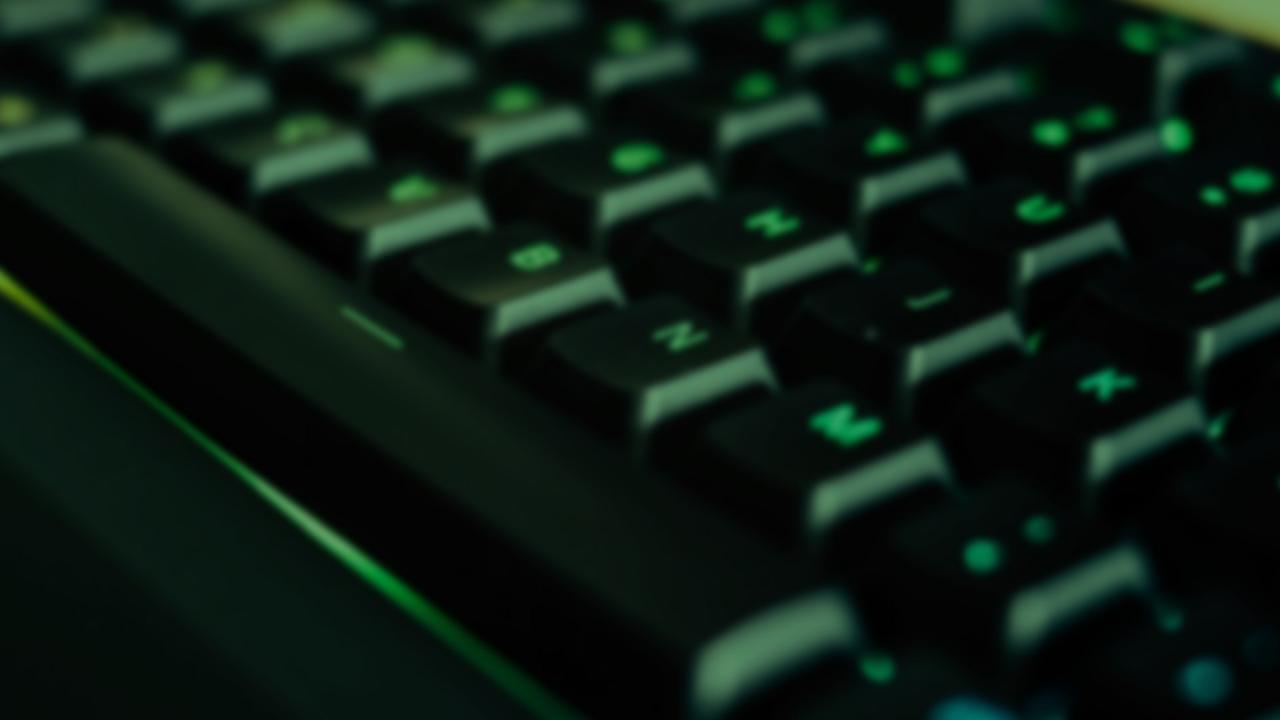
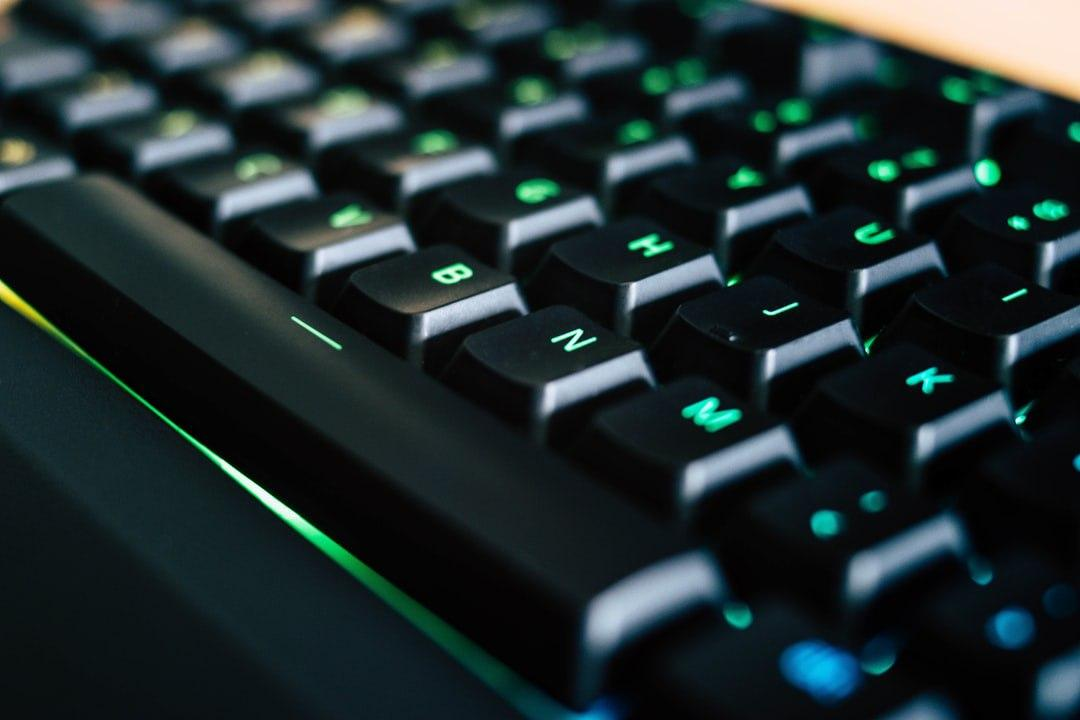
changed background

diff --git a/static/styles.css b/static/styles.css
@@ -7,15 +7,15 @@ body {
     font-weight: bold;
     
     /* background-color: #000000aa; */
-    background-color: #151515;
+    background-color: #252525;
     /* background-repeat: repeat; */
     /* background-image: url('/static/assets/maratona-logo-wallpaper.png') ; */
     /* background-image: url('https://raw.githubusercontent.com/leodeliyannis/maratona-wallpapers/master/Wallpapers/maratona-logo-wallpaper.png') ; */
-    /* background-image: url(/static/assets/background_2.jpg); */
-    background-image: url(/static/assets/maratona-background-only.webp);
+    background-image: url(/static/assets/background_2.webp);
+    /* background-image: url(/static/assets/maratona-background-only.webp); */
     background-blend-mode: multiply;
     background-attachment: fixed;
-    /* backdrop-filter: blur(5px); */
+    backdrop-filter: blur(5px);
     background-size: cover;
 
     overflow-y: scroll;
